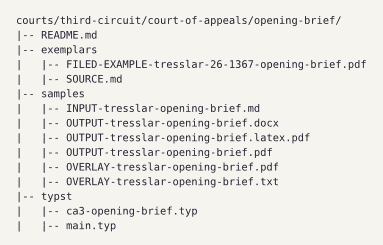
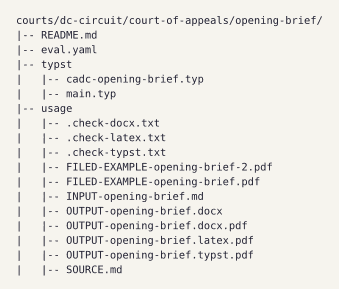
docs(showcase): move to docs/showcase/README.md; every image pairs formbook output with its filed example (fb-595.77)
pages.png and courts.png are ours-beside-filed pairs (courts: the three whose render matches); the overlay image is dropped (font substitution makes it all red/blue); folder.png lists the D.C. folder.

Changed region(s): [[0.0295, 0.0571, 0.9735, 0.9714]]

diff --git a/tools/fb/src/showcase.rs b/tools/fb/src/showcase.rs
@@ -1,6 +1,5 @@
 //! `fb showcase`: regenerate every image in docs/showcase/ from files committed in this repo (was
-//! docs/showcase/make-screenshots.sh). The overlay is regenerated into the gitignored .overlay/ by `fb overlay`
-//! first; overlays are never committed.
+//! docs/showcase/make-screenshots.sh). Every image pairs formbook output with the filed example it is modelled on.
 //! Needs pdftoppm (poppler), magick (ImageMagick), typst; the formbook toolchain
 //! ($HOME/.local/share/formbook/env/bin, see `fb bootstrap`) is put on PATH first. Layout and labels are typeset
 //! by typst with its bundled fonts (--ignore-system-fonts), so output does not depend on installed fonts. Page
@@ -11,14 +10,8 @@ use std::path::{Path, PathBuf};
 use std::process::{Command, ExitCode};
 
 const HERO: &str = "courts/dc-circuit/court-of-appeals/opening-brief";
-const TRES: &str = "courts/third-circuit/court-of-appeals/opening-brief";
-const NYS: &str = "courts/second-circuit/new-york/state/supreme-court/motion-brief";
-const CAND: &str = "courts/ninth-circuit/california/federal/northern-district/complaint";
-const SCOTUS: &str = "courts/supreme-court-of-the-united-states/merits-brief";
-const CA1: &str = "courts/first-circuit/court-of-appeals/opening-brief";
 const MDB: &str = "courts/fourth-circuit/maryland/federal/bankruptcy-district/adversary-complaint";
 const CASUP: &str = "courts/ninth-circuit/california/state/superior-court/complaint";
-const TXSC: &str = "courts/fifth-circuit/texas/state/supreme-court/brief-on-the-merits";
 
 const HERO_TYP: &str = r####"#let bx = eval("bo" + "x", mode: "code")  // typst's inline layout primitive
 #set page(width: 1180pt, height: 520pt, margin: 18pt, fill: rgb("#f6f4ee"))
@@ -37,33 +30,31 @@ const HERO_TYP: &str = r####"#let bx = eval("bo" + "x", mode: "code")  // typst'
   lab[your markdown], [], lab[formbook render], [], lab[filed with the court (the target)])
 "####;
 
-const OVERLAY_TYP: &str = r####"#let bx = eval("bo" + "x", mode: "code")  // typst's inline layout primitive
-#set page(width: auto, height: auto, margin: 14pt, fill: rgb("#f6f4ee"))
-#set text(font: "Libertinus Serif", size: 14pt, fill: rgb("#222"))
-#align(center)[
-  #bx(stroke: 0.8pt + rgb("#999"), image("o.png", height: 640pt))
-  #v(6pt)
-  #text(fill: rgb("#d00000"), weight: "bold")[red] = only in our render · #text(fill: rgb("#0044cc"), weight: "bold")[blue] = only in the filed exemplar · black = both agree
-]
-"####;
-
 const PAGES_TYP: &str = r####"#let bx = eval("bo" + "x", mode: "code")  // typst's inline layout primitive
 #set page(width: auto, height: auto, margin: 14pt, fill: rgb("#f6f4ee"))
 #set text(font: "Libertinus Serif", size: 13pt, fill: rgb("#222"))
+#let pair(a, b, w) = grid(columns: 2, column-gutter: 4pt,
+  bx(stroke: 0.8pt + rgb("#999"), image(a, width: w)), bx(stroke: 0.8pt + rgb("#999"), image(b, width: w)))
 #let names = ("cover", "certificate as to parties", "table of contents", "table of authorities", "introduction", "summary of argument", "certificate of compliance", "certificate of service")
-#grid(columns: 4, column-gutter: 10pt, row-gutter: 12pt,
+#align(center, text(size: 15pt, weight: "bold")[each pair: formbook render (left) next to the filed brief (right)])
+#v(6pt)
+#grid(columns: 4, column-gutter: 14pt, row-gutter: 12pt,
   ..range(8).map(i => align(center, stack(spacing: 5pt,
-    bx(stroke: 0.8pt + rgb("#999"), image("p" + str(i + 1) + ".png", width: 215pt)),
+    pair("p" + str(i + 1) + ".png", "f" + str(i + 1) + ".png", 150pt),
     names.at(i)))))
 "####;
 
 const COURTS_TAIL_TYP: &str = r####"#let bx = eval("bo" + "x", mode: "code")  // typst's inline layout primitive
 #set page(width: auto, height: auto, margin: 14pt, fill: rgb("#f6f4ee"))
 #set text(font: "Libertinus Serif", size: 13pt, fill: rgb("#222"))
-#let labels = (l1, l2, l3, l4, l5, l6, l7, l8)
-#grid(columns: 4, column-gutter: 10pt, row-gutter: 12pt,
-  ..range(8).map(i => align(center, stack(spacing: 5pt,
-    bx(stroke: 0.8pt + rgb("#999"), image("c" + str(i + 1) + ".png", width: 215pt)),
+#let pair(a, b, w) = grid(columns: 2, column-gutter: 4pt,
+  bx(stroke: 0.8pt + rgb("#999"), image(a, width: w)), bx(stroke: 0.8pt + rgb("#999"), image(b, width: w)))
+#align(center, text(size: 15pt, weight: "bold")[each pair: formbook render (left) next to the filed example (right)])
+#v(6pt)
+#let labels = (l1, l2, l3)
+#grid(columns: 3, column-gutter: 16pt, row-gutter: 12pt,
+  ..range(3).map(i => align(center, stack(spacing: 5pt,
+    pair("c" + str(i + 1) + ".png", "d" + str(i + 1) + ".png", 230pt),
     labels.at(i)))))
 "####;
 
@@ -216,73 +207,37 @@ impl Shots {
         self.compose("hero.typ", HERO_TYP, "hero.png", 96)
     }
 
-    fn overlay(&self) -> Res<()> {
-        let exe = std::env::current_exe().map_err(|e| fail(2, format!("fb showcase: {e}")))?;
-        run(
-            Command::new(exe).args(["overlay", CAND, "complaint"]),
-            "fb overlay",
-        )?;
-        self.page(
-            &format!(".overlay/{CAND}/OVERLAY-complaint.pdf"),
-            2,
-            "o",
-            130,
-        )?;
-        self.compose("overlay.typ", OVERLAY_TYP, "overlay.png", 64)
-    }
-
     fn pages(&self) -> Res<()> {
         let t_out = format!("{HERO}/usage/OUTPUT-opening-brief.typst.pdf");
-        for (i, p) in [1, 2, 4, 5, 7, 11, 14, 15].iter().enumerate() {
-            self.page(&t_out, *p, &format!("p{}", i + 1), 70)?;
+        let t_filed = format!("{HERO}/usage/FILED-EXAMPLE-opening-brief.pdf");
+        // our page, the filed page it corresponds to (the same part of the same brief)
+        for (i, (ours, filed)) in [(1, 1), (2, 2), (4, 5), (5, 6), (7, 16), (11, 40), (14, 71), (15, 72)]
+            .iter()
+            .enumerate()
+        {
+            self.page(&t_out, *ours, &format!("p{}", i + 1), 70)?;
+            self.page(&t_filed, *filed, &format!("f{}", i + 1), 70)?;
         }
-        self.compose("pages.typ", PAGES_TYP, "pages.png", 48)
+        self.compose("pages.typ", PAGES_TYP, "pages.png", 64)
     }
 
     fn courts(&self) -> Res<()> {
+        // only courts whose current render visibly matches the filed example
         let list = [
-            (
-                format!("{SCOTUS}/usage/OUTPUT-merits-brief.typst.pdf"),
-                "U.S. Supreme Court: merits brief",
-            ),
-            (
-                format!("{CA1}/usage/OUTPUT-opening-brief.typst.pdf"),
-                "1st Circuit: opening brief",
-            ),
-            (
-                format!("{TRES}/usage/OUTPUT-opening-brief.typst.pdf"),
-                "3rd Circuit: opening brief",
-            ),
-            (
-                format!("{CAND}/usage/OUTPUT-complaint.typst.pdf"),
-                "N.D. Cal.: complaint",
-            ),
-            (
-                format!("{MDB}/usage/OUTPUT-adversary-complaint.typst.pdf"),
-                "D. Md. Bankruptcy: adversary complaint",
-            ),
-            (
-                format!("{CASUP}/usage/OUTPUT-complaint.typst.pdf"),
-                "California Superior Court: complaint",
-            ),
-            (
-                format!("{NYS}/usage/OUTPUT-motion-brief.typst.pdf"),
-                "New York Supreme Court: motion brief",
-            ),
-            (
-                format!("{TXSC}/usage/OUTPUT-brief-on-the-merits.typst.pdf"),
-                "Texas Supreme Court: brief on the merits",
-            ),
+            (HERO, "opening-brief", "D.C. Circuit: opening brief"),
+            (MDB, "adversary-complaint", "D. Md. Bankruptcy: adversary complaint"),
+            (CASUP, "complaint", "California Superior Court: complaint"),
         ];
-        for (i, (pdf, _)) in list.iter().enumerate() {
-            self.page(pdf, 1, &format!("c{}", i + 1), 70)?;
+        for (i, (dir, id, _)) in list.iter().enumerate() {
+            self.page(&format!("{dir}/usage/OUTPUT-{id}.typst.pdf"), 1, &format!("c{}", i + 1), 70)?;
+            self.page(&format!("{dir}/usage/FILED-EXAMPLE-{id}.pdf"), 1, &format!("d{}", i + 1), 70)?;
         }
-        let labels: Vec<&str> = list.iter().map(|(_, l)| *l).collect();
-        self.compose("courts.typ", &courts_typ(&labels), "courts.png", 48)
+        let labels: Vec<&str> = list.iter().map(|(_, _, l)| *l).collect();
+        self.compose("courts.typ", &courts_typ(&labels), "courts.png", 64)
     }
 
     fn folder(&self) -> Res<()> {
-        let tree = tree_lines(TRES, &depth_two(&self.root.join(TRES)));
+        let tree = tree_lines(HERO, &depth_two(&self.root.join(HERO)));
         std::fs::write(
             self.w("tree.txt"),
             tree.iter().map(|l| format!("{l}\n")).collect::<String>(),
@@ -319,7 +274,6 @@ pub fn main(args: &[String]) -> Res<ExitCode> {
         work: TempDir::new("showcase")?,
     };
     s.hero()?;
-    s.overlay()?;
     s.pages()?;
     s.courts()?;
     s.folder()?;

diff --git a/docs/showcase/README.md b/docs/showcase/README.md
@@ -1,0 +1,41 @@
+# Showcase
+
+Every image here is generated from files committed in this repo. One script regenerates all of them (needs `pdftoppm`, `magick` and `typst` on your PATH):
+
+```sh
+just showcase
+```
+
+Labels and layout are typeset by typst with its bundled fonts, so the output does not depend on your installed fonts. The source documents are the sample folders named in each caption. Every image compares formbook's output with the filed example it is modelled on. For a text-level diff of your own render against its exemplar, `just overlay <dir>` writes a red/blue overlay PDF into the gitignored `.overlay/`.
+
+## hero.png
+
+![hero](hero.png)
+
+The target is the filed brief: the court's cover is what formbook is built to reproduce. Left, the first lines of the YAML header of `courts/dc-circuit/court-of-appeals/opening-brief/usage/INPUT-opening-brief.md` (your markdown); middle, formbook's rendered cover page from that file (`usage/OUTPUT-opening-brief.typst.pdf`, page 1); right, the cover page of the brief actually filed (`usage/FILED-EXAMPLE-opening-brief.pdf`, page 1, with the court's electronic-filing stamp). The two covers share their layout: centered oral-argument line, bold case number, short rules between blocks, caption with the designations set to the right, two-column counsel block, date at the margin. They differ in type (small caps on the court name, upper-case party names) and in how the third counsel group flows.
+
+Regenerate all images, including this one: `just showcase`
+
+## pages.png
+
+![pages](pages.png)
+
+Eight pairs from the D.C. Circuit brief: formbook's render (`courts/dc-circuit/court-of-appeals/opening-brief/usage/OUTPUT-opening-brief.typst.pdf`, pages 1, 2, 4, 5, 7, 11, 14, 15) beside the page of the filed brief (`usage/FILED-EXAMPLE-opening-brief.pdf`, pages 1, 2, 5, 6, 16, 40, 71, 72) it corresponds to: cover, certificate as to parties, table of contents, table of authorities, introduction, summary of argument, certificate of compliance, certificate of service. The render is a portion of the brief, so body pages fall differently.
+
+Regenerate: `just showcase`
+
+## courts.png
+
+![courts](courts.png)
+
+Page 1 of the render beside page 1 of the filed example for three courts whose render matches closely: D.C. Circuit opening brief, D. Md. bankruptcy adversary complaint, California Superior Court complaint. Other folders are not shown because their covers do not match their exemplars yet (the per-court status is in the index of the top-level README). The list is in `tools/fb/src/showcase.rs`.
+
+Regenerate: `just showcase`
+
+## folder.png
+
+![folder](folder.png)
+
+The layout of one doc-type folder (`courts/dc-circuit/court-of-appeals/opening-brief/`): `README.md`, the filed exemplar and its `SOURCE.md`, the markdown input with our output and overlay, and the Typst template. Listing generated with `find`.
+
+Regenerate: `just showcase`

diff --git a/README.md b/README.md
@@ -12,7 +12,7 @@ Every template is checked against public record: each folder's `usage/` carries 
 - 614 folders have at least one filed exemplar PDF (1,528 PDFs in all).
 - **v0.2.0 status.** All 224 federal courts (including bankruptcy and the Supreme Court) are *up for review*: each has a `rules.md` written from fetched primary sources, and every doc folder under it passes the default eval in `data/checks-default.yaml`. Renders are pinned (typst 0.15.1, Times New Roman 2.82). The 152 state courts are in progress; none is up for review yet. 4 California superior-court folders currently fail the default content check.
 - **"Up for review" means machine-checked, not human-reviewed.** No court is marked `done`; that status is set by hand, and no court has been human-verified yet.
-- More pictures, and the command that regenerates each: [docs/showcase.md](docs/showcase.md). Per-court progress is in the [index](#index) at the bottom.
+- More pictures, and the command that regenerates each: [docs/showcase/README.md](docs/showcase/README.md). Per-court progress is in the [index](#index) at the bottom.
 
 These templates are not legal advice and do not check your arguments or citations. Verify every output against the court's current rules before you file; the court index below marks what is finished and what is still in progress.
 
